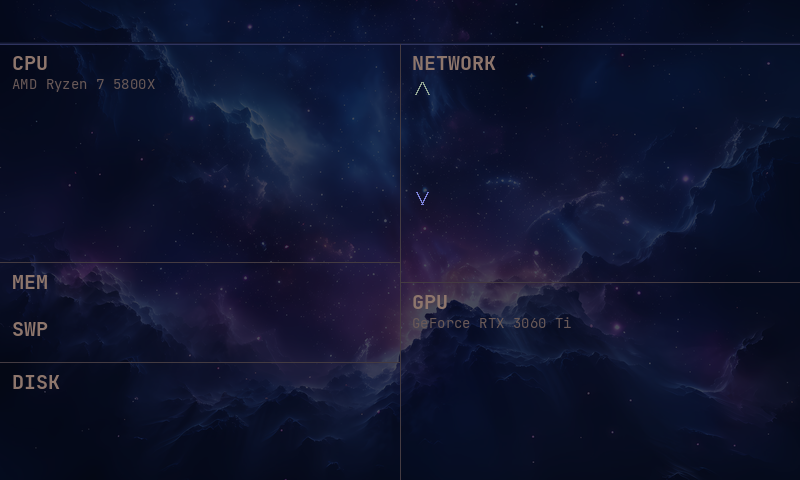
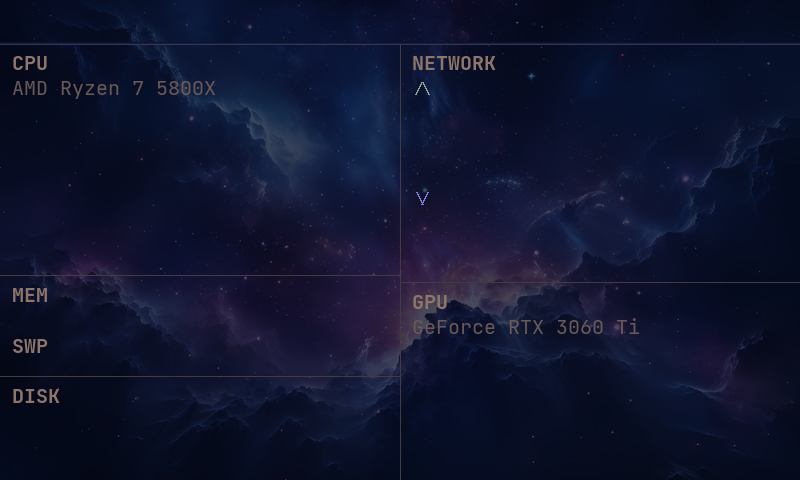
OmarchySync: fix GPU flickering, bump model name font to 20px
- All GPU stats set to INTERVAL: 1 — prevents PERCENTAGE from
  erasing TEMPERATURE/MEMORY text on every redraw cycle
- Model name font: 14px → 20px (matches other stat text)
- Expand CPU_BOT/MEM_BOT to fit larger model name text
- Adjust radial/bar Y offsets accordingly

diff --git a/generate_omarchy_theme.py b/generate_omarchy_theme.py
@@ -26,9 +26,9 @@ COL_SEP  = 400
 
 # Left column
 CPU_TOP  = HEADER_H   # 44
-CPU_BOT  = 262        # expanded to fit model name + radial + freq/temp
+CPU_BOT  = 275        # expanded to fit 20px model name + radial + freq/temp
 MEM_TOP  = CPU_BOT + 1
-MEM_BOT  = 362
+MEM_BOT  = 376
 DISK_TOP = MEM_BOT + 1
 DISK_BOT = H
 
@@ -136,7 +136,7 @@ def draw_baked_labels(draw, colors, cpu_model: str, gpu_model: str):
         font_bold = ImageFont.truetype(
             os.path.join(FONTS_DIR, "jetbrains-mono", "JetBrainsMono-Bold.ttf"), 20)
         font_model = ImageFont.truetype(
-            os.path.join(FONTS_DIR, "jetbrains-mono", "JetBrainsMono-Regular.ttf"), 14)
+            os.path.join(FONTS_DIR, "jetbrains-mono", "JetBrainsMono-Regular.ttf"), 20)
     except Exception:
         return
 
@@ -145,7 +145,7 @@ def draw_baked_labels(draw, colors, cpu_model: str, gpu_model: str):
     # section labels
     draw.text((PAD, CPU_TOP  + 5), "CPU",     fill=dim,  font=font_bold)
     draw.text((PAD, MEM_TOP  + 5), "MEM",     fill=dim,  font=font_bold)
-    draw.text((PAD, MEM_TOP + 52), "SWP",     fill=dim,  font=font_bold)
+    draw.text((PAD, MEM_TOP + 56), "SWP",     fill=dim,  font=font_bold)
     draw.text((PAD, DISK_TOP + 5), "DISK",    fill=dim,  font=font_bold)
     draw.text((rx,  NET_TOP  + 5), "NETWORK", fill=dim,  font=font_bold)
     draw.text((rx,  GPU_TOP  + 5), "GPU",     fill=dim,  font=font_bold)
@@ -181,17 +181,17 @@ def write_theme_yaml(colors: dict, path: str):
     FONT_BOLD = "jetbrains-mono/JetBrainsMono-Bold.ttf"
     BG        = "background.png"
 
-    # CPU radial — model name sits at CPU_TOP+30 (14px, ~18px tall), ends ~48
-    # radial top starts at CPU_TOP+52, giving 4px gap after model text
+    # CPU radial — model name at CPU_TOP+30 (20px, ~24px tall, ends ~54)
+    # radial top starts at CPU_TOP+60, giving 6px gap after model text
     cpu_cx = COL_SEP // 2
     cpu_r  = 68
-    cpu_cy = CPU_TOP + 52 + cpu_r   # 44+52+68 = 164
+    cpu_cy = CPU_TOP + 60 + cpu_r   # 44+60+68 = 172; bottom=240; freq/temp at 248
 
     # MEM/DISK bars
     bar_w      = COL_SEP - PAD * 2   # 376
     bar_h      = 14
     mem_bar_y  = MEM_TOP + 30
-    swap_bar_y = MEM_TOP + 74
+    swap_bar_y = MEM_TOP + 76
     disk_bar_y = DISK_TOP + 30
 
     # NET — spaced for font-size 37
@@ -199,10 +199,10 @@ def write_theme_yaml(colors: dict, path: str):
     net_up_y   = NET_TOP + 32        # 76
     net_dn_y   = NET_TOP + 140       # 184
 
-    # GPU — model name at GPU_TOP+30, bars below
+    # GPU — model name at GPU_TOP+30 (20px, ends ~54); bars pushed below
     gpu_bar_w  = W - COL_SEP - PAD * 2   # 376
-    gpu_bar_y  = GPU_TOP + 52
-    gpu_mem_y  = GPU_TOP + 96
+    gpu_bar_y  = GPU_TOP + 60
+    gpu_mem_y  = GPU_TOP + 104
 
     yaml = f"""\
 ---
@@ -341,7 +341,7 @@ STATS:
         SHOW: True
         SHOW_UNIT: True
         X: {PAD + 50}
-        Y: {MEM_TOP + 52}
+        Y: {MEM_TOP + 56}
         FONT: {FONT}
         FONT_SIZE: 20
         FONT_COLOR: {c(accent)}
@@ -455,7 +455,7 @@ STATS:
         FONT_COLOR: {c(yellow)}
         BACKGROUND_IMAGE: {BG}
     TEMPERATURE:
-      INTERVAL: 5
+      INTERVAL: 1
       TEXT:
         SHOW: True
         SHOW_UNIT: True
@@ -466,7 +466,7 @@ STATS:
         FONT_COLOR: {c(dim)}
         BACKGROUND_IMAGE: {BG}
     MEMORY:
-      INTERVAL: 5
+      INTERVAL: 1
       GRAPH:
         SHOW: True
         X: {rx}
@@ -482,7 +482,7 @@ STATS:
         SHOW: True
         SHOW_UNIT: True
         X: {rx + 50}
-        Y: {GPU_TOP + 52}
+        Y: {GPU_TOP + 60}
         FONT: {FONT}
         FONT_SIZE: 20
         FONT_COLOR: {c(dim)}
